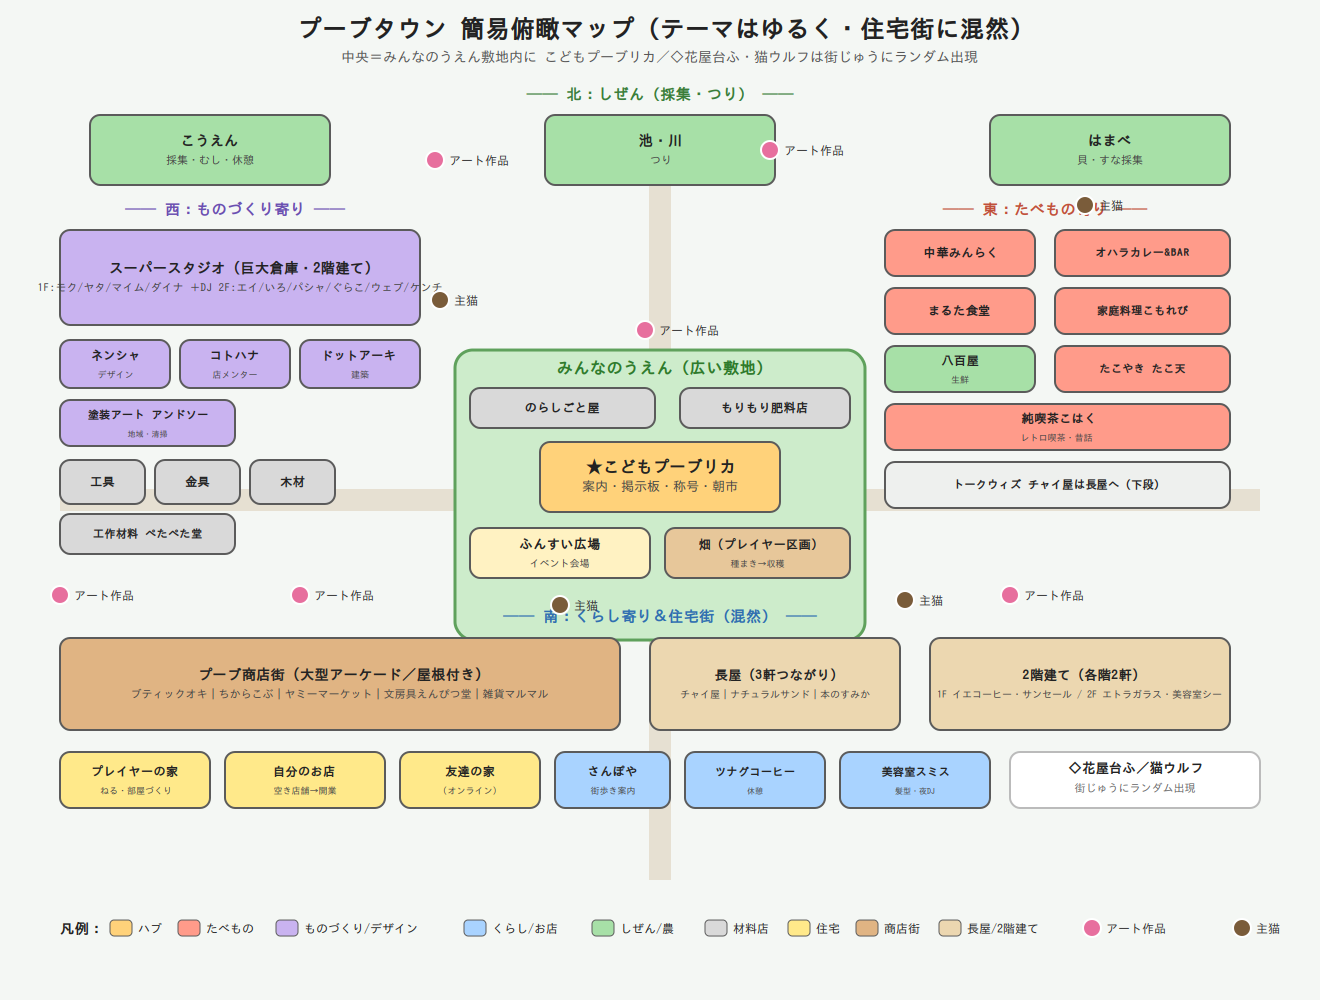
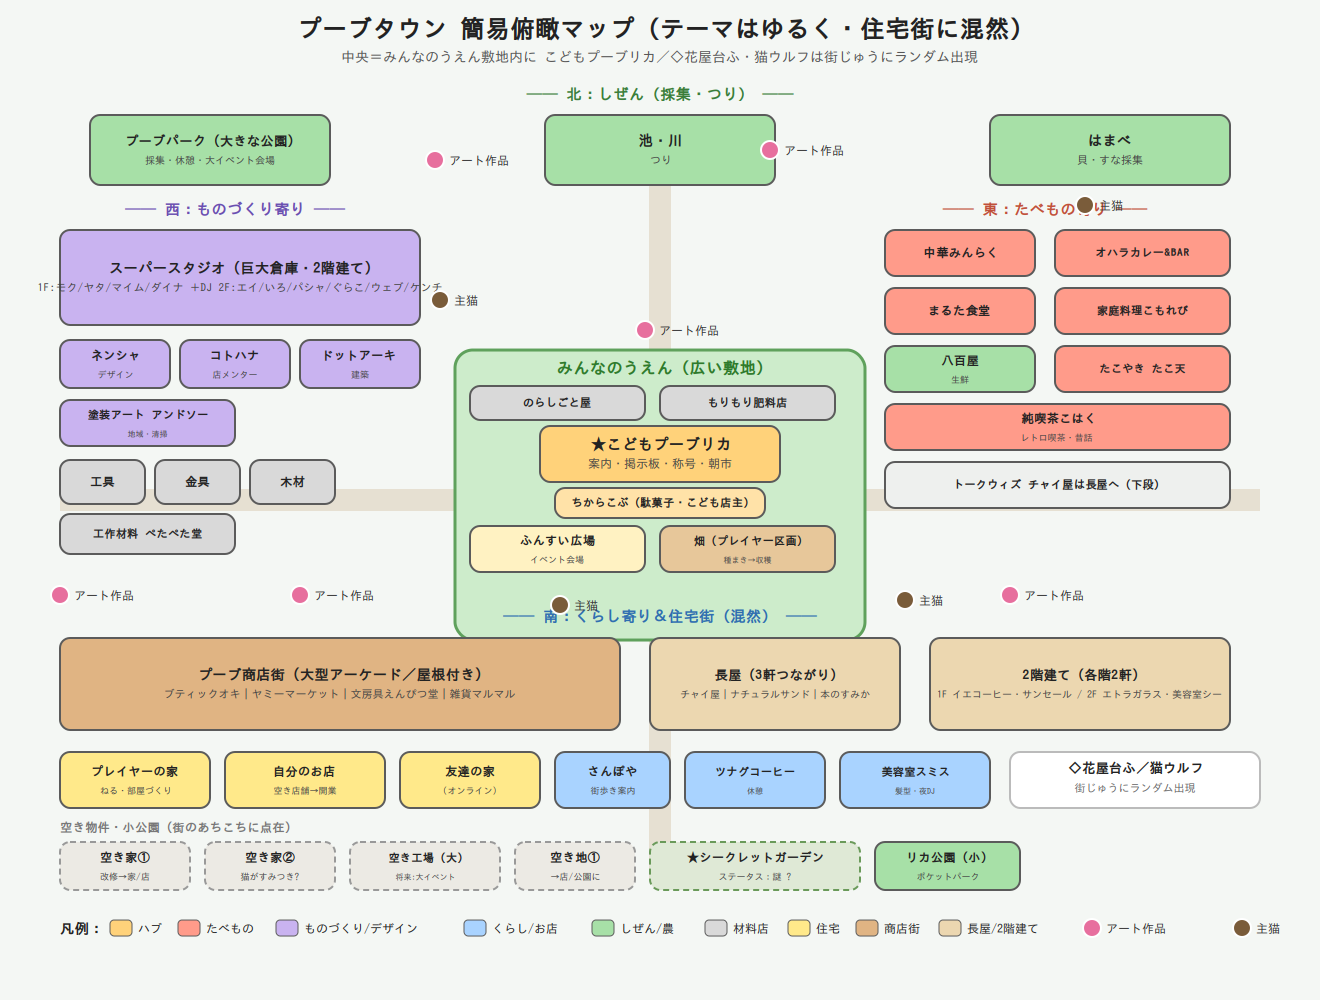
Move Chikarakobu into Kodomo Puublica; add parks, vacancies, secret garden
Chikarakobu now sits inside Kodomo Puublica. Add Puub Park (large) and
Rika Park (small). Add vacant houses/factory/lots scattered for future
town-building, and a Secret Garden (status: unknown) as a hidden lot.
Update MAP.md, TOWN.md, and the map generator/SVG/PNG.

https://claude.ai/code/session_01VmUZCs8i6ZW6jfSa9WcoNQ

diff --git a/tools/generate_map.py b/tools/generate_map.py
@@ -21,8 +21,8 @@ def text(x, y, s, fs=15, fill="#222", anchor="middle", weight="normal"):
                  f'text-anchor="{anchor}" font-weight="{weight}" '
                  f'font-family="IPAGothic, sans-serif">{esc(s)}</text>')
 
-def box(x, y, w, h, label, fill, fs=14, sub=None, rx=10):
-    rect(x, y, w, h, fill, rx=rx)
+def box(x, y, w, h, label, fill, fs=14, sub=None, rx=10, dash=None, stroke="#5b5b5b"):
+    rect(x, y, w, h, fill, rx=rx, dash=dash, stroke=stroke)
     cx = x + w/2
     if sub:
         text(cx, y + h/2 - 4, label, fs=fs, weight="bold")
@@ -50,18 +50,19 @@ parts.append(f'<line x1="660" y1="120" x2="660" y2="{H-120}" stroke="#e6e0d2" st
 
 # ---- NORTH: しぜん ----
 text(660, 100, "── 北：しぜん（採集・つり） ──", fs=15, fill="#3a7d3a", weight="bold")
-box(90, 115, 240, 70, "こうえん", C_NAT, sub="採集・むし・休憩")
+box(90, 115, 240, 70, "プーブパーク（大きな公園）", C_NAT, fs=13, sub="採集・休憩・大イベント会場")
 box(545, 115, 230, 70, "池・川", C_NAT, sub="つり")
 box(990, 115, 240, 70, "はまべ", C_NAT, sub="貝・すな採集")
 
 # ---- CENTER: farm_site ----
 rect(455, 350, 410, 290, C_FARM, stroke="#5fa15c", rx=18, sw=3)
 text(660, 374, "みんなのうえん（広い敷地）", fs=16, weight="bold", fill="#2f7a2c")
-box(470, 388, 185, 40, "のらしごと屋", C_MAT, fs=12)
-box(680, 388, 170, 40, "もりもり肥料店", C_MAT, fs=12)
-box(540, 442, 240, 70, "★こどもプーブリカ", C_HUB, fs=16, sub="案内・掲示板・称号・朝市")
-box(470, 528, 180, 50, "ふんすい広場", "#fff2c2", fs=13, sub="イベント会場")
-box(665, 528, 185, 50, "畑（プレイヤー区画）", "#e7c79a", fs=12, sub="種まき→収穫")
+box(470, 386, 175, 34, "のらしごと屋", C_MAT, fs=11)
+box(660, 386, 175, 34, "もりもり肥料店", C_MAT, fs=11)
+box(540, 426, 240, 56, "★こどもプーブリカ", C_HUB, fs=15, sub="案内・掲示板・称号・朝市")
+box(555, 488, 210, 30, "ちからこぶ（駄菓子・こども店主）", "#ffe2a8", fs=11)
+box(470, 526, 175, 46, "ふんすい広場", "#fff2c2", fs=12, sub="イベント会場")
+box(660, 526, 175, 46, "畑（プレイヤー区画）", "#e7c79a", fs=11, sub="種まき→収穫")
 
 # ---- WEST: ものづくり ----
 text(235, 215, "── 西：ものづくり寄り ──", fs=15, fill="#6a4fb0", weight="bold")
@@ -90,7 +91,7 @@ box(885, 462, 345, 46, "トークウィズ チャイ屋は長屋へ（下段）"
 # ---- SOUTH: くらし＆住宅 ----
 text(660, 622, "── 南：くらし寄り＆住宅街（混然） ──", fs=15, fill="#2f6db0", weight="bold")
 box(60, 638, 560, 92, "プーブ商店街（大型アーケード／屋根付き）", C_ARC, fs=14,
-    sub="ブティックオキ｜ちからこぶ｜ヤミーマーケット｜文房具えんぴつ堂｜雑貨マルマル")
+    sub="ブティックオキ｜ヤミーマーケット｜文房具えんぴつ堂｜雑貨マルマル")
 box(650, 638, 250, 92, "長屋（3軒つながり）", C_NAGA, fs=13,
     sub="チャイ屋｜ナチュラルサンド｜本のすみか")
 box(930, 638, 300, 92, "2階建て（各階2軒）", C_NAGA, fs=13,
@@ -102,6 +103,16 @@ box(400, 752, 140, 56, "友達の家", C_HOME, fs=12, sub="(オンライン)")
 box(555, 752, 115, 56, "さんぽや", C_LIVE, fs=12, sub="街歩き案内")
 box(685, 752, 140, 56, "ツナグコーヒー", C_LIVE, fs=11, sub="休憩")
 box(840, 752, 150, 56, "美容室スミス", C_LIVE, fs=11, sub="髪型・夜DJ")
+
+# 空き物件・小公園の行（住宅街に点在）
+C_VAC="#eceae4"; C_SEC="#dfe9d6"
+text(60, 832, "空き物件・小公園（街のあちこちに点在）", fs=12, anchor="start", fill="#777", weight="bold")
+box(60, 842, 130, 48, "空き家①", C_VAC, fs=12, dash="6 4", stroke="#999", sub="改修→家/店")
+box(205, 842, 130, 48, "空き家②", C_VAC, fs=12, dash="6 4", stroke="#999", sub="猫がすみつき?")
+box(350, 842, 150, 48, "空き工場（大）", C_VAC, fs=11, dash="6 4", stroke="#999", sub="将来:大イベント")
+box(515, 842, 120, 48, "空き地①", C_VAC, fs=12, dash="6 4", stroke="#999", sub="→店/公園に")
+box(650, 842, 210, 48, "★シークレットガーデン", C_SEC, fs=12, dash="6 4", stroke="#6a9a5a", sub="ステータス：謎 ?")
+box(875, 842, 145, 48, "リカ公園（小）", C_NAT, fs=12, sub="ポケットパーク")
 
 # roving + signatures
 rect(1010, 752, 250, 56, "#fff", stroke="#bbb", rx=10)

diff --git a/MAP.md b/MAP.md
@@ -28,20 +28,22 @@
 
 ```
    ┌──────────── 中央：みんなのうえん（広い敷地）────────────┐
-   │  畑(プレイヤー区画)   ★こどもプーブリカ(敷地内の建物・HUB)  │
-   │  のらしごと屋/肥料店  ふんすい・掲示板(朝市/イベント会場)    │   北側へ→ こうえん/池/はまべ(しぜん)
+   │  畑(プレイヤー区画)   ★こどもプーブリカ(敷地内・HUB／中にちからこぶ)  │
+   │  のらしごと屋/肥料店  ふんすい・掲示板(朝市/イベント会場)    │   北側へ→ プーブパーク(大)/リカ公園(小)/池/はまべ
    └───────────────────────────┬───────────────────────────┘
                                │  (住宅街の路地でゆるくつながる)
         住宅街にお店が「混然」と点在（下のエリアは “ゆるい傾向” のみ）
    ─────────────────────────────────────────────────────────────
    ゆる西：ものづくり寄り      ゆる東：たべもの寄り        ゆる南：くらし寄り
    スーパースタジオ(巨大倉庫)   中華みんらく/オハラ          【プーブ商店街(大型アーケード)】
-   ネンシャ/コトハナ          まるた/こもれび/八百屋          └ ブティックオキ(＋ちからこぶ/ヤミー/
+   ネンシャ/コトハナ          まるた/こもれび/八百屋          └ ブティックオキ(＋ヤミー/
    ドットアーキ/アンドソー     たこ天/純喫茶こはく               文房具/雑貨 等を中に入れてOK)
    工具/金具/木材/工作材料      〔長屋〕チャイ屋+サンド+本のすみか   美容室スミス/ツナグ/さんぽや
                             〔2階建て〕イエ+サンセール / エトラ+美容室シー
    ─────────────────────────────────────────────────────────────
    〔じゅうたく〕プレイヤーの家 / 友達の家 / 自分のお店(空き店舗) … 街のあちこちに混在
+   〔空き物件〕空き家・空き工場・空き地が点在（将来のまちづくり/改修/イベント）
+   〔リカ公園(小)〕住宅街のポケットパーク ／ ★空き地の1つ＝シークレットガーデン(謎)
 
    ◇ 花屋台ふ＆猫ウルフ ＝固定なし。街じゅうの「出現ポイント」にランダム登場
 ```
@@ -63,7 +65,8 @@
 1. **ゆるい振り分け＋住宅街に混然**：エリアはテーマの傾向だけ。厳格に分けない。
    お店は住宅の合間に点在する（路地・長屋の街）
 2. **こどもプーブリカ ＝ みんなのうえんの広い敷地の中の建物**。
-   ハブと畑が一体。敷地内に 広場・畑区画・(近くに)農具/肥料 も置く
+   ハブと畑が一体。敷地内に 広場・畑区画・(近くに)農具/肥料 も置く。
+   **ちからこぶ（駄菓子・こども店主）も こどもプーブリカの中**に入れる
 3. **長屋（1棟・3軒つながり）**：`nagaya_A`
    - トークウィズ チャイ屋 ／ ナチュラルサンド ／ 本のすみか
 4. **2階建て（1棟・1フロア2軒＝計4軒）**：`bldg_2f_B`
@@ -81,8 +84,8 @@
 ### 🏢 複数店が入る建物・施設（マルチテナント）一覧
 | 建物ID | 種類 | 入っている店 |
 |---|---|---|
-| `farm_site` | 広い敷地 | こどもプーブリカ(建物)／畑区画／広場（＋近接で農具・肥料） |
-| `arcade_puub` | 大型アーケード商店街 | **ブティックオキ**（＋ちからこぶ/ヤミー/文房具/雑貨 等を入れてOK） |
+| `farm_site` | 広い敷地 | こどもプーブリカ(建物・中に**ちからこぶ**)／畑区画／広場（＋近接で農具・肥料） |
+| `arcade_puub` | 大型アーケード商店街 | **ブティックオキ**（＋ヤミー/文房具/雑貨 等を入れてOK） |
 | `nagaya_A` | 長屋(横並び3軒) | トークウィズ チャイ屋／ナチュラルサンド／本のすみか |
 | `bldg_2f_B` | 2階建て(各階2軒) | 1F イエコーヒー・サンセール ／ 2F エトラガラス・美容室シー |
 | `studio_warehouse` | 巨大倉庫・2階建て | スタジオ：1F=モク/ヤタ/マイム/ダイナ+DJ ／ 2F=エイ/いろ/パシャ/ぐらこ/ウェブ/ケンチ |
@@ -122,7 +125,7 @@
 | ID | 名前 | 店主 | 営業 | 内部 | 役わり |
 |---|---|---|---|---|---|
 | oki | ブティックオキ | おき | 朝昼夕 | panel | 服・着せ替え・街の長老/まちづくり |
-| chikarakobu | ちからこぶ | ちから | 昼夕 | panel | 駄菓子・こども店主のロールモデル |
+| chikarakobu | ちからこぶ ※こどもプーブリカ内 | ちから | 昼夕 | panel | 駄菓子・こども店主のロールモデル |
 | yummy | ヤミーマーケット | ミホ | 昼夕 | panel | 調味料・食料品 |
 | smith | 美容室スミス | カズ | 朝昼夕(夜DJ) | scene | 髪型チェンジ(きぶん大)・夜DJ |
 | shii | 美容室シー | シー | 昼夕 | scene | 髪型チェンジ・子どもにやさしい |
@@ -161,7 +164,8 @@
 | farm | みんなのうえん(畑) | かね | 朝昼夕 | outdoor | 農業の拠点・プレイヤーの畑区画 |
 | nouguya | のらしごと屋 農具(架空) | くわぞう | 朝昼 | panel | くわ/じょうろ/支柱 |
 | hiryo | もりもり肥料店(架空) | もり | 朝昼 | panel | 土/肥料(収穫UP) |
-| park | こうえん | ― | 終日 | outdoor | 採集(木の実/むし)・ベンチ休憩 |
+| puub_park | プーブパーク（大きな公園） | ― | 終日 | outdoor | 採集・ベンチ休憩・大きなイベント会場 |
+| rika_park | リカ公園（小さな公園） | ― | 終日 | outdoor | 住宅街のポケットパーク・休憩・小イベント |
 | pond | 池/川 | (うみのおじさん枠は要検討) | 終日 | outdoor | つり |
 | beach | はまべ | ― | 終日 | outdoor | 貝/すな採集（たんけん家スキルで解放） |
 
@@ -170,7 +174,22 @@
 |---|---|---|---|
 | hanayataifu | 花屋台ふ | れい | 固定位置なし。出現ポイントにランダム登場（§5） |
 
-> 📌 ロケーション総数：実在25＋架空11＋施設/自然/家 ≒ **40拠点**
+### 空き物件・空き地（将来用・まちづくり・ミステリー）
+> 街のあちこちに点在。今は使われていないが、**改修・イベント・隠し要素**の種。
+> ねらい「街を一緒に育てる」と相性◎（いえなり/おき/アンドソー/コトハナと連動）。
+
+| ID | 名前 | 状態 | 役わり・将来案 |
+|---|---|---|---|
+| vacant_house_1 | 空き家① | 空き | 改修クエスト→友達の家/新しい店/休憩所に |
+| vacant_house_2 | 空き家② | 空き | 同上。猫がすみついている案も |
+| vacant_factory | 空き工場 | 空き(大型) | 将来：スタジオ拡張/大イベント会場/まちづくりの目玉 |
+| vacant_lot_1 | 空き地① | 空き | 将来：新しいお店/小さな公園に育てる |
+| **secret_garden** | **シークレットガーデン** | **謎（ステータス不明）** | 空き地の1つ。隠し要素。条件で開く?探検・称号の核 |
+
+> ✨ **シークレットガーデン**：あえて詳細を伏せる“謎”の場所。見つける/開く条件や
+>    中身はこれから設計（こどもの「なんだろう？」を刺激する仕掛け）。
+
+> 📌 ロケーション総数：実在25＋架空11＋施設/自然/家/空き物件 ≒ **45拠点**
 
 ---
 

diff --git a/TOWN.md b/TOWN.md
@@ -36,6 +36,9 @@
   - ⭐ **ウルフ**＝白灰色の人懐っこい猫。街じゅうを歩き回る、みんなに愛される人気者
   - 🏠 **各拠点に主猫（ぬし猫）**：みんなのうえん・スーパースタジオ等に看板猫がいる
   - なでる＝きぶん回復、好物で仲良し、ねこ図鑑・猫クエストに（詳細は`MAP.md`§2-2）
+- 🏞 **公園が2つ**：**プーブパーク**（大きな公園・採集/イベント）と **リカ公園**（小さなポケットパーク）
+- 🏚 **空き家・空き工場・空き地が点在**：将来のまちづくり・改修・イベントの種
+- ✨ **シークレットガーデン**（空き地の1つ・**ステータス：謎**）：見つける/開く条件は秘密の隠し要素
 
 ## 🏪 お店いちらん（北加賀屋オマージュ）
 
@@ -198,6 +201,7 @@
 - **店主**：ちからくん（男・10代）
 - **営業時間**：昼・夕方
 - **モデル**：北加賀屋の実在「ちからこぶ」へのオマージュ
+- **場所**：**こどもプーブリカの中**にある（ミッキー/ひなこの近く・同じ拠点）
 - **お店の特徴**：**こどもが店主の駄菓子屋さん**。プレイヤーと年が近い同世代の仲間
 - **ゲーム内で売るもの／できること**：安い駄菓子（少しのプーブで買える・きぶんUP）。
   **「こどもでもお店ができる」ロールモデル**＝自分のお店(§商いの柱)への入口・あこがれ役。